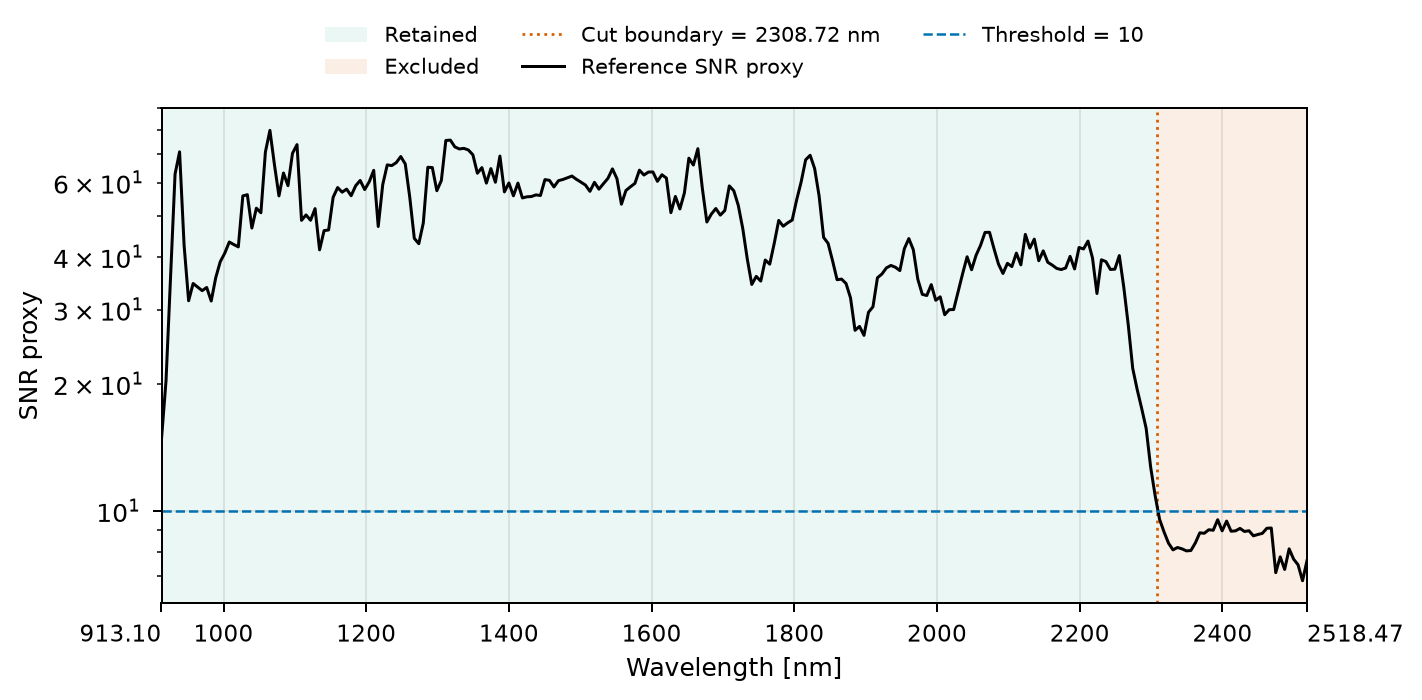
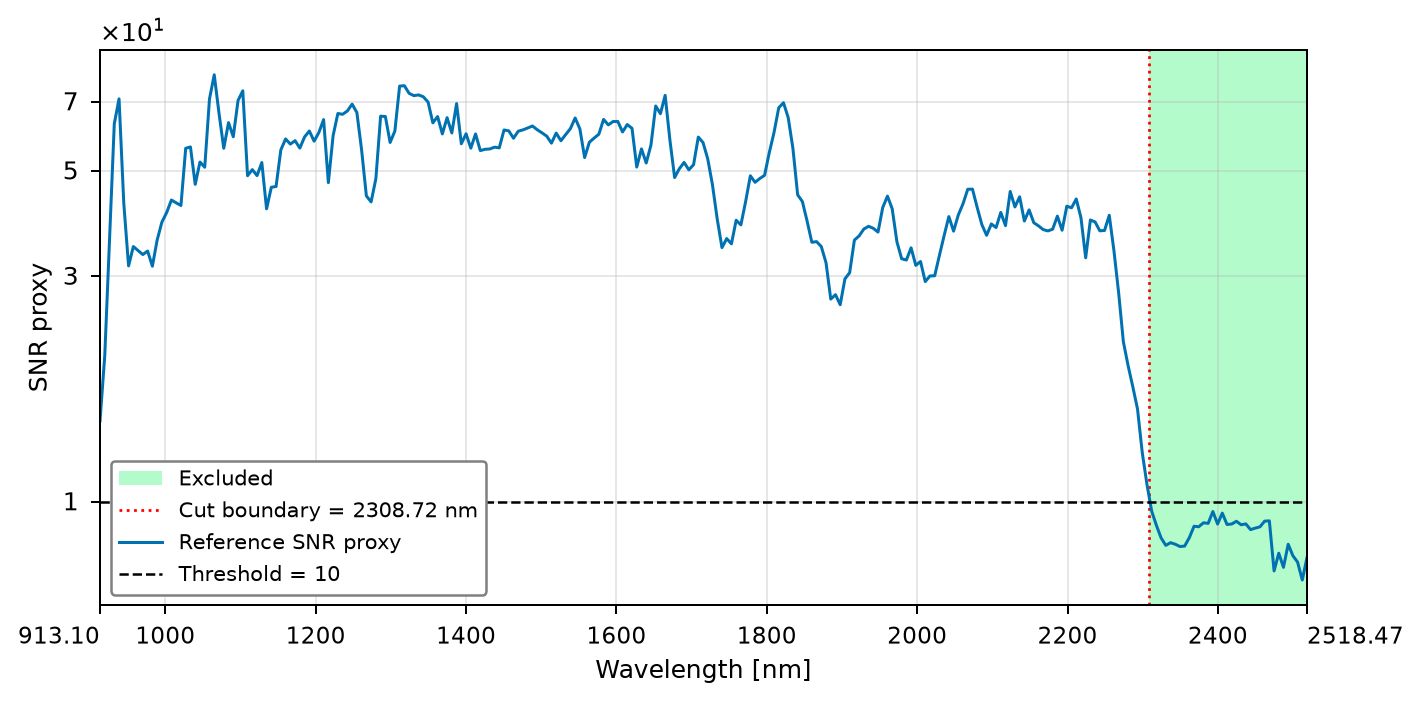
Minor changes to the visualization

diff --git a/src/wood_degradation_map/preprocessing/visualization.py b/src/wood_degradation_map/preprocessing/visualization.py
@@ -8,7 +8,7 @@ from typing import Literal
 import matplotlib.pyplot as plt
 from matplotlib.lines import Line2D
 from matplotlib.patches import Patch
-from matplotlib.ticker import FormatStrFormatter
+from matplotlib.ticker import FormatStrFormatter, NullLocator, ScalarFormatter
 import numpy as np
 import pandas as pd
 
@@ -23,7 +23,7 @@ def configure_spectrum_axis(
     if representation == "reflectance":
         limits, ticks, label = (0.0, 1.0), np.linspace(0.0, 1.0, 6), "Reflectance"
     elif representation == "snv":
-        limits, ticks, label = (-2.0, 2.0), np.linspace(-2.0, 2.0, 9), "SNV"
+        limits, ticks, label = (-2.0, 2.0), np.linspace(-2.0, 2.0, 9), "SNV spectra"
     else:
         raise ValueError(f"Unknown spectral representation: {representation}")
     axis.set_yticks(ticks)
@@ -187,7 +187,7 @@ def plot_band_distribution(
         median,
         color="#0072B2",
         linewidth=1.4,
-        label="Median sample median",
+        label="Median spectrum (across samples)",
     )
     axis.set_xlabel("Wavelength [nm]")
     if y_label.lower() in ("reflectance", "snv"):
@@ -239,18 +239,13 @@ def plot_snr_cutoff_decision(
     )
     output_path.parent.mkdir(parents=True, exist_ok=True)
     fig, axis = plt.subplots(figsize=(8.0, 4.0), dpi=180)
-    axis.axvspan(
-        wavelength_edges[0],
-        wavelength_edges[-1] if cutoff_boundary_nm is None else cutoff_boundary_nm,
-        color="#009E73", alpha=0.08, linewidth=0, label="Retained",
-    )
     if cutoff_boundary_nm is not None:
         axis.axvspan(
             cutoff_boundary_nm, wavelength_edges[-1],
-            color="#D55E00", alpha=0.10, linewidth=0, label="Excluded",
+            color="#08F557", alpha=0.30, linewidth=0, label="Excluded",
         )
         axis.axvline(
-            cutoff_boundary_nm, color="#D55E00", linewidth=1.1, linestyle=":",
+            cutoff_boundary_nm, color="red", linewidth=1.1, linestyle=":",
             label=f"Cut boundary = {cutoff_boundary_nm:.2f} nm",
         )
 
@@ -258,24 +253,31 @@ def plot_snr_cutoff_decision(
     axis.plot(
         wavelength,
         np.where(np.isfinite(snr) & (snr > 0.0), snr, np.nan),
-        color="black",
+        color="#0072B2",
         linewidth=1.2,
         label="Reference SNR proxy",
     )
     axis.axhline(
         snr_threshold,
-        color="#0072B2",
+        color="black",
         linewidth=1.0,
         linestyle="--",
         label=f"Threshold = {snr_threshold:g}",
     )
     axis.set_yscale("log")
+    axis.set_yticks([10, 30, 50, 70])
+    snr_formatter = ScalarFormatter(useMathText=True)
+    snr_formatter.set_powerlimits((1, 1))
+    axis.yaxis.set_major_formatter(snr_formatter)
+    axis.yaxis.set_minor_locator(NullLocator())
     axis.set_ylabel("SNR proxy")
     axis.set_xlabel("Wavelength [nm]")
     configure_wavelength_axis(axis, wavelength)
-    axis.legend(
-        frameon=False, fontsize=8.5, loc="lower center", bbox_to_anchor=(0.5, 1.02), ncol=3,
+    legend = axis.legend(
+        frameon=True, facecolor="white", edgecolor="0.5", framealpha=1.0,
+        fontsize=8.5, loc="lower left",
     )
+    legend.set_zorder(10)
     axis.grid(True, which="major", alpha=0.3)
     fig.tight_layout()
     fig.savefig(output_path, bbox_inches="tight")

diff --git a/scripts/experiments/sanity_check_augmentation_strengths.py b/scripts/experiments/sanity_check_augmentation_strengths.py
@@ -313,7 +313,7 @@ def _plot_noise_examples(
             )
             _mark_outside_limits(left, wavelength, values[row], color=color)
             _mark_outside_limits(right, wavelength, values[row] - spectrum, color=color)
-        left.set_ylabel(f"Example {row + 1}\nSNV")
+        left.set_ylabel(f"Example {row + 1}\nSNV spectra")
         record = examples.iloc[row]
         left.text(
             0.02, 0.05,
@@ -325,7 +325,7 @@ def _plot_noise_examples(
         right.axhline(0.0, color="0.4", linewidth=0.7)
         right.set_ylim(-0.5, 0.5)
         right.set_yticks(np.linspace(-0.5, 0.5, 11))
-        right.set_ylabel("Perturbed - clean (SNV)")
+        right.set_ylabel("Perturbed - clean (SNV spectra)")
         right.grid(alpha=0.18)
         for axis in (left, right):
             configure_wavelength_axis(axis, wavelength)
@@ -378,7 +378,7 @@ def _plot_shift_examples(
             _mark_outside_limits(left, wavelength, shifted, color=color)
             _mark_outside_limits(right, wavelength, shifted - spectrum, color=color)
         direction = "+" if sign > 0 else "−"
-        left.set_ylabel(f"Example {row + 1} ({direction})\nSNV")
+        left.set_ylabel(f"Example {row + 1} ({direction})\nSNV spectra")
         record = examples.iloc[row]
         left.text(
             0.02, 0.05,
@@ -390,7 +390,7 @@ def _plot_shift_examples(
         right.axhline(0.0, color="0.4", linewidth=0.7)
         right.set_ylim(-0.5, 0.5)
         right.set_yticks(np.linspace(-0.5, 0.5, 11))
-        right.set_ylabel("Shifted - clean (SNV)")
+        right.set_ylabel("Shifted - clean (SNV spectra)")
         right.grid(alpha=0.18)
         for axis in (left, right):
             configure_wavelength_axis(axis, wavelength)
